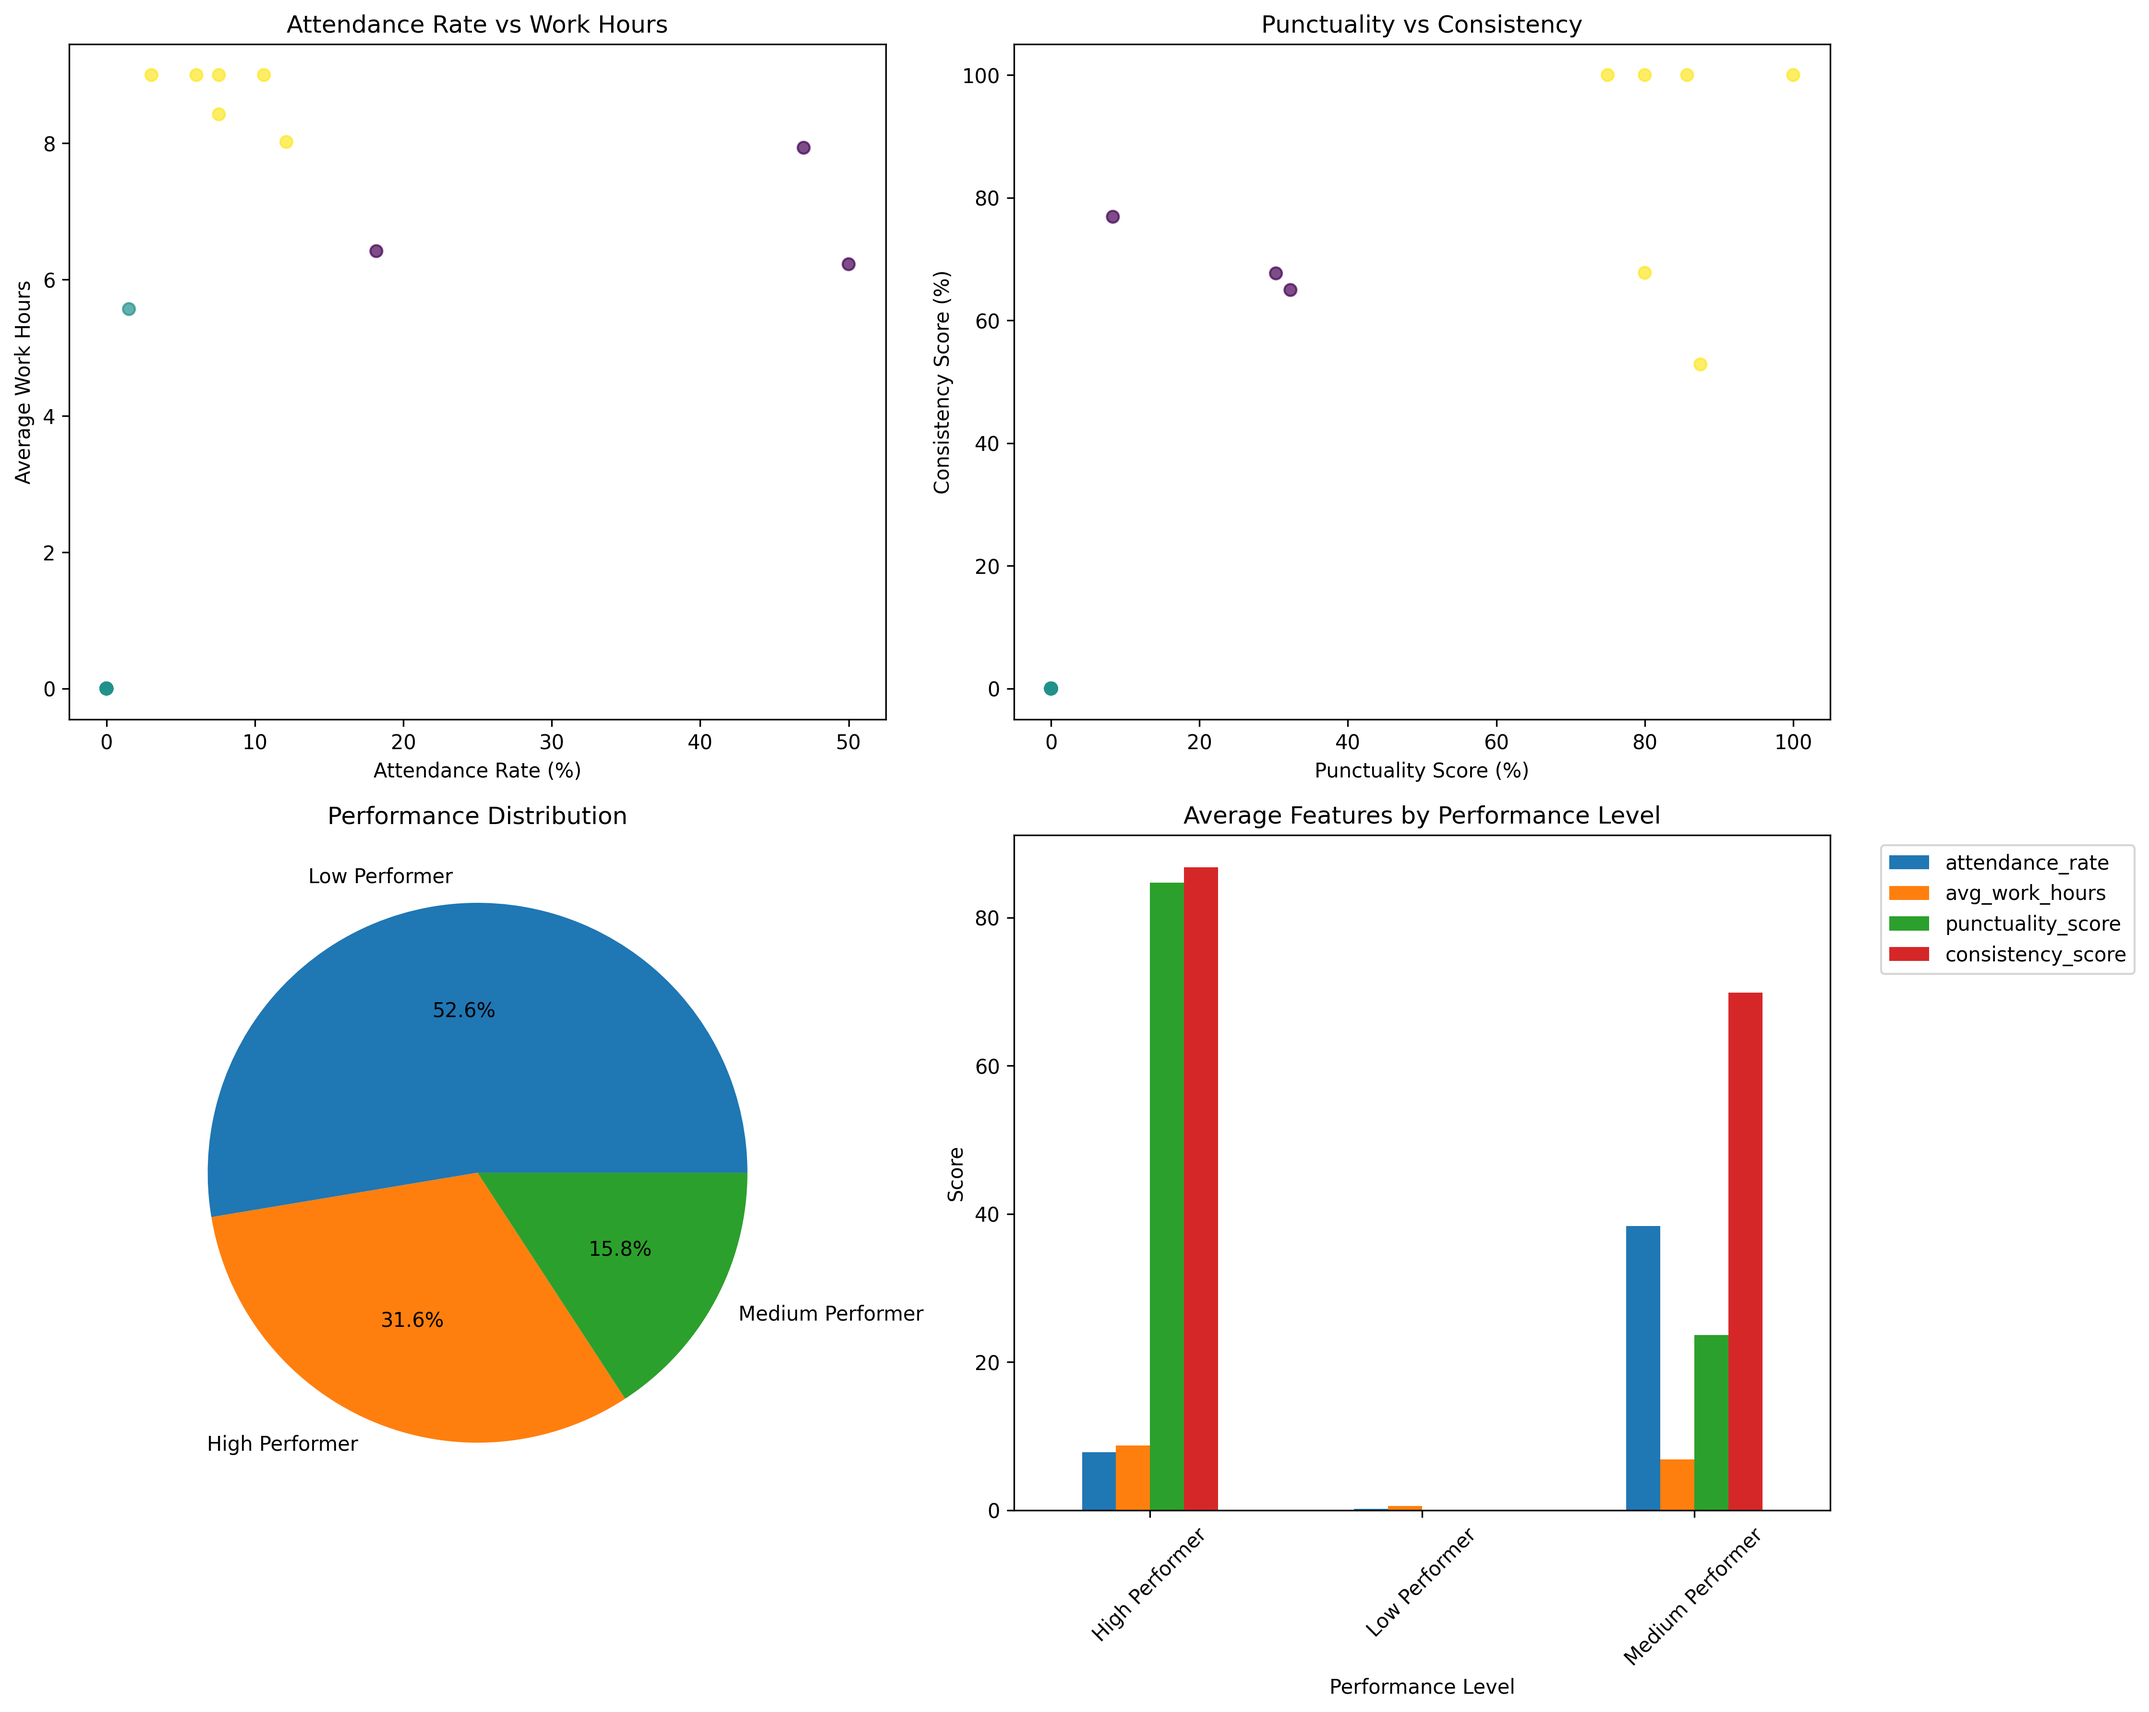
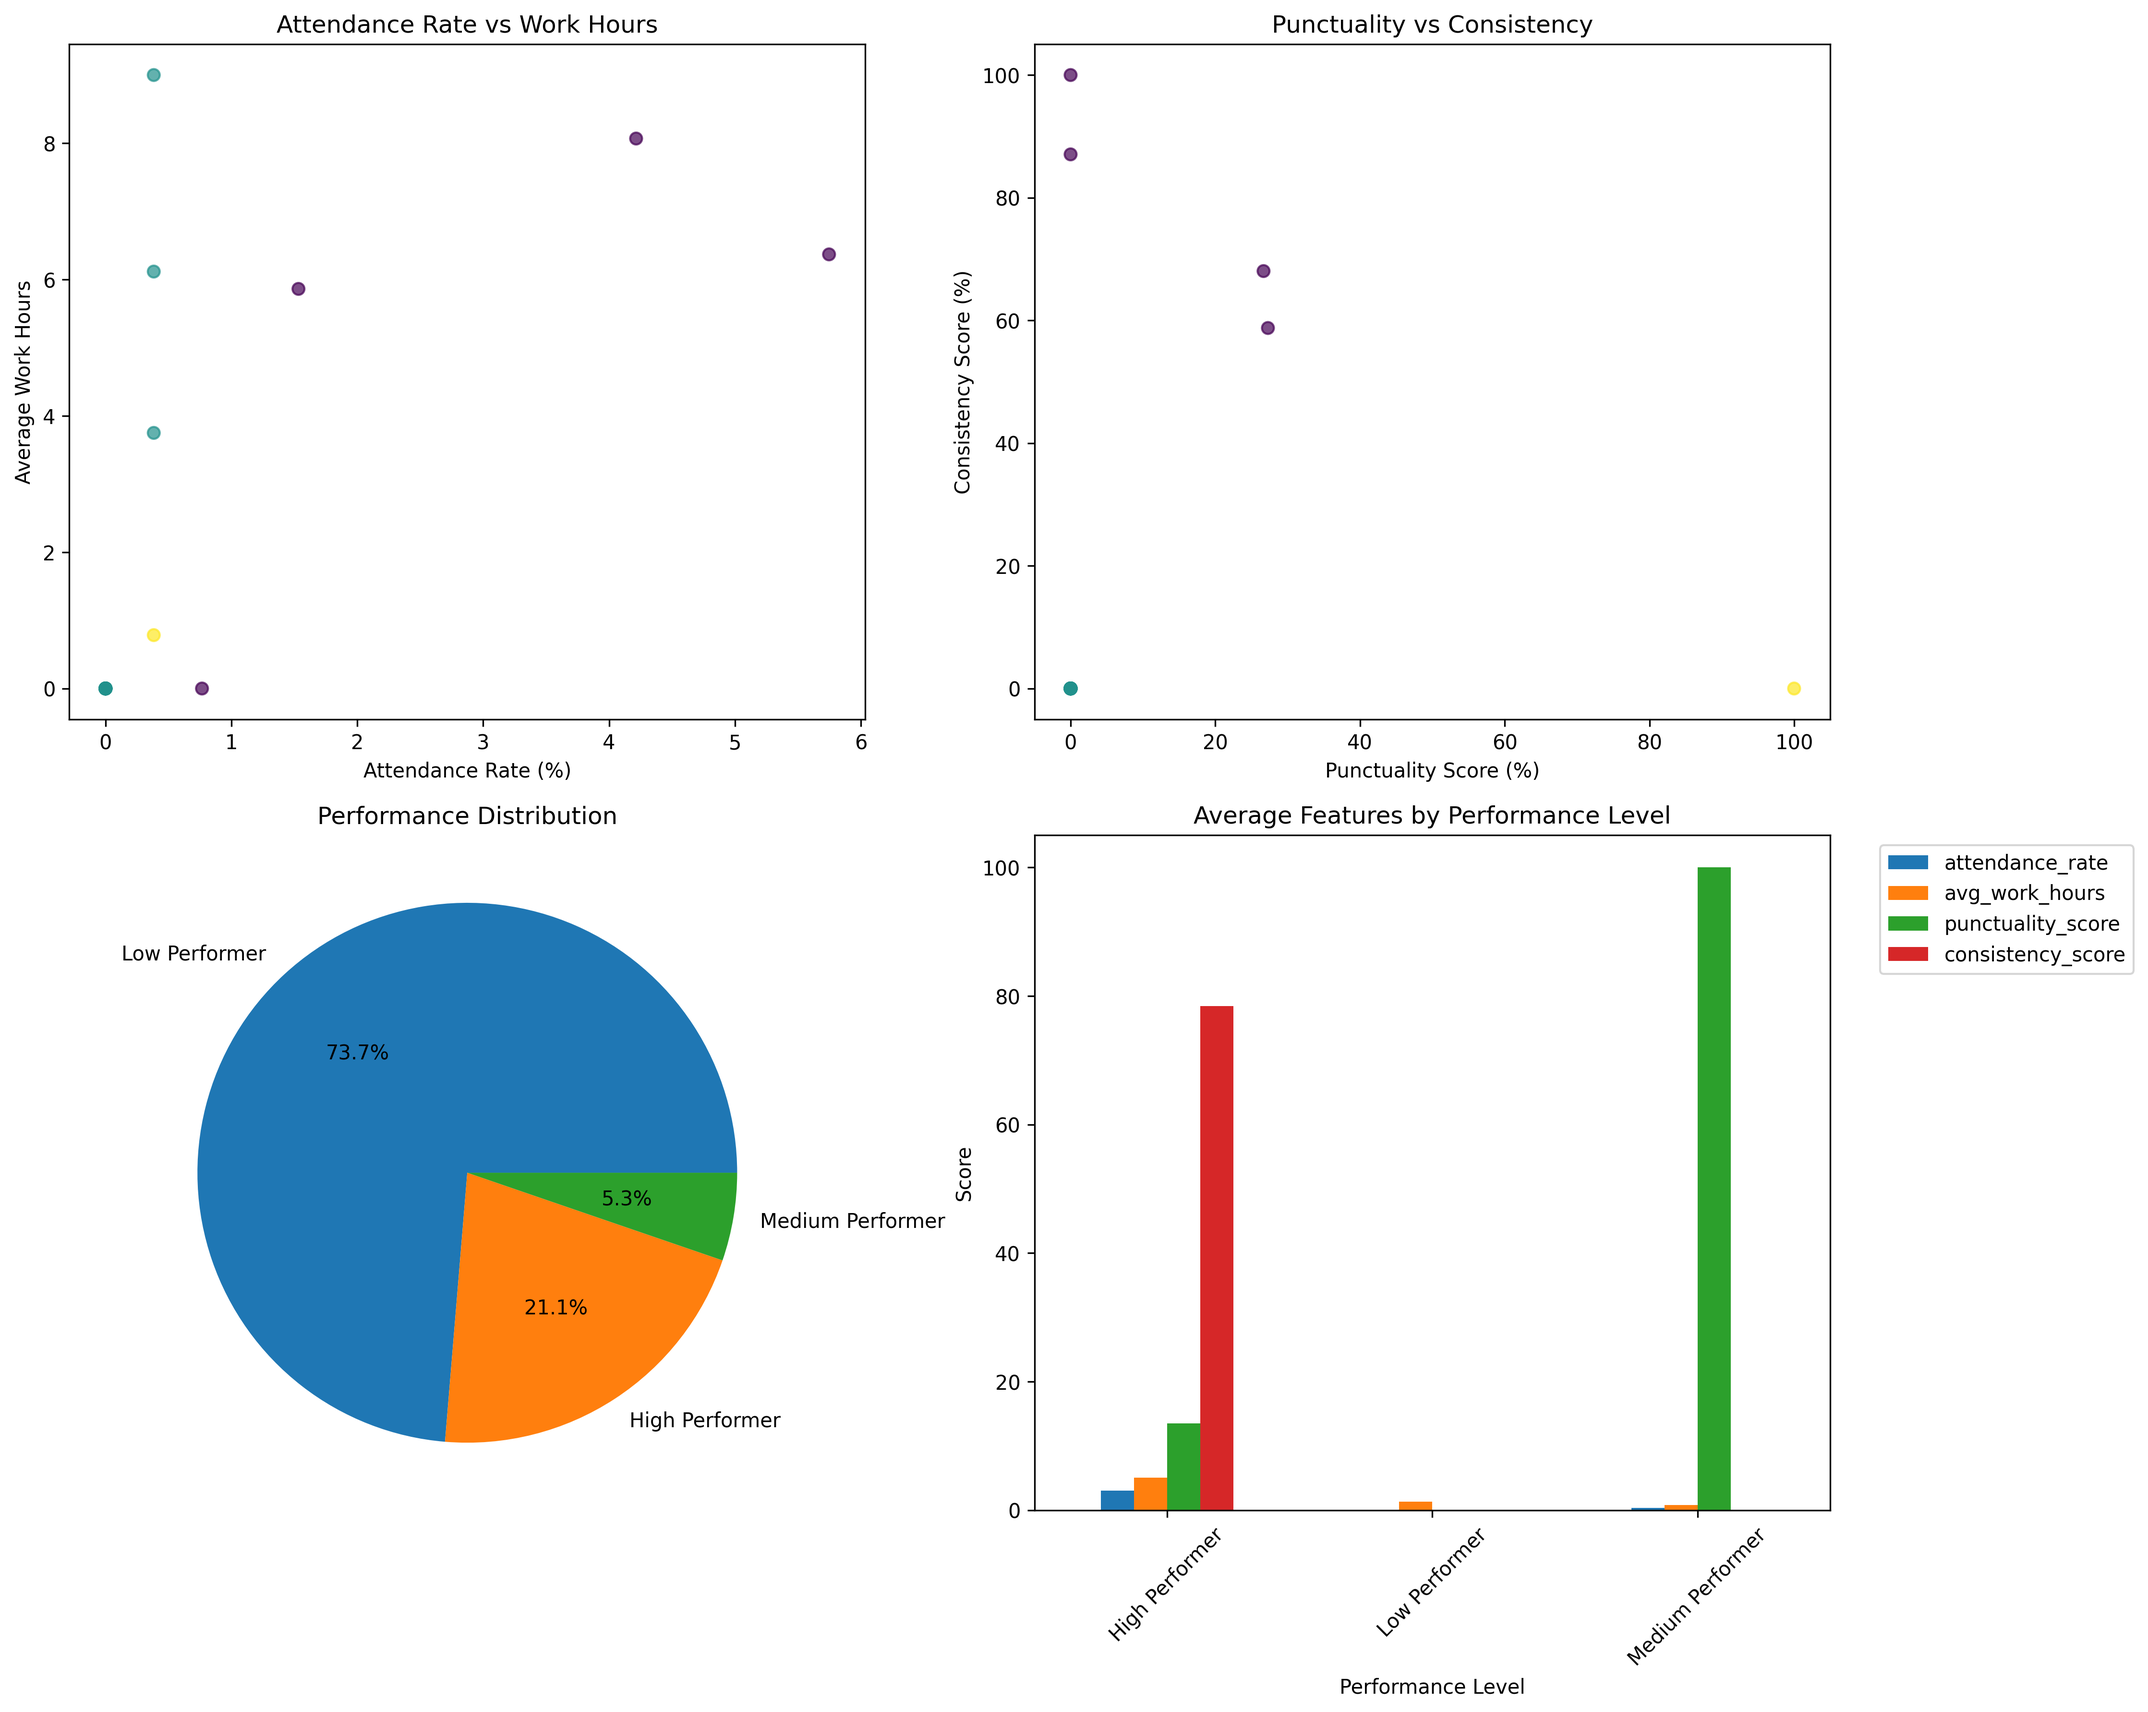
yy

diff --git a/config.py b/config.py
@@ -9,8 +9,8 @@ class Config:
     FIREBASE_CREDENTIALS_PATH = os.getenv('FIREBASE_CREDENTIALS_PATH', 'firebase-credentials.json')
     
     # Date range configuration
-    START_DATE = '2024-11-01'  # Format: YYYY-MM-DD
-    END_DATE = '2025-01-31'    # Format: YYYY-MM-DD
+    START_DATE = '2025-01-01'  # Format: YYYY-MM-DD
+    END_DATE = '2025-12-31'    # Format: YYYY-MM-DD
     
     # Model configuration
     N_CLUSTERS = 3
